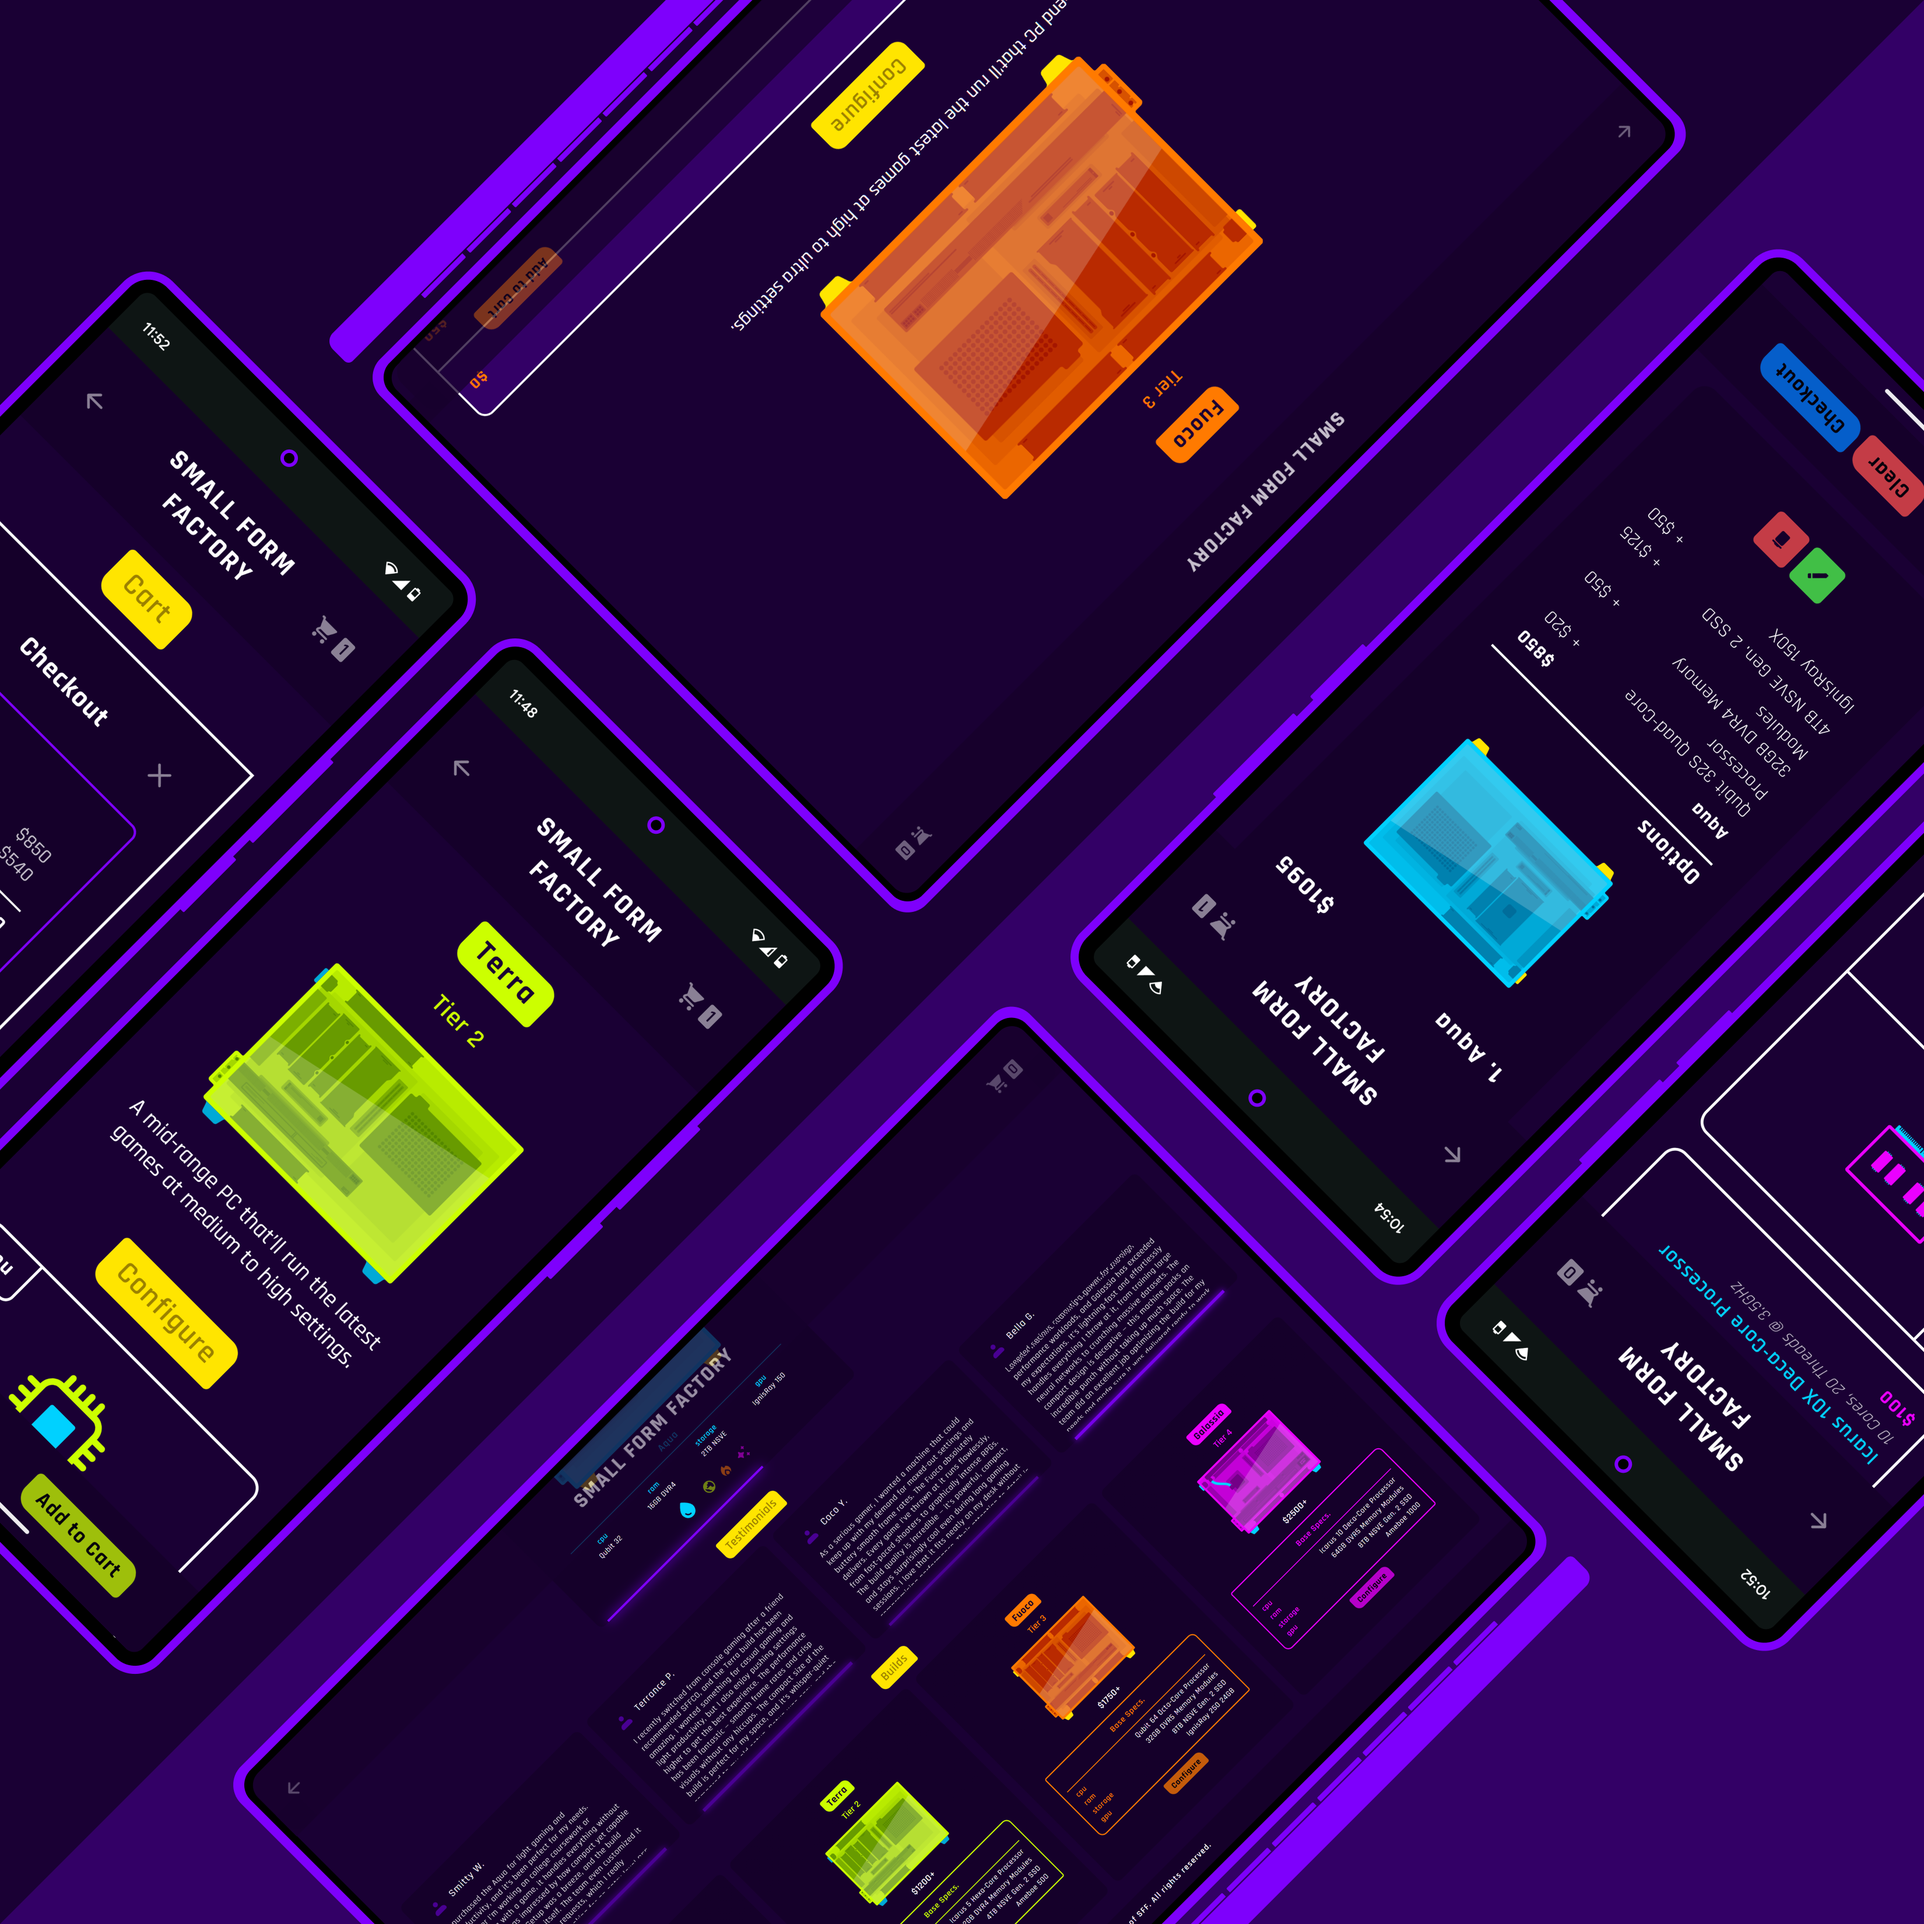
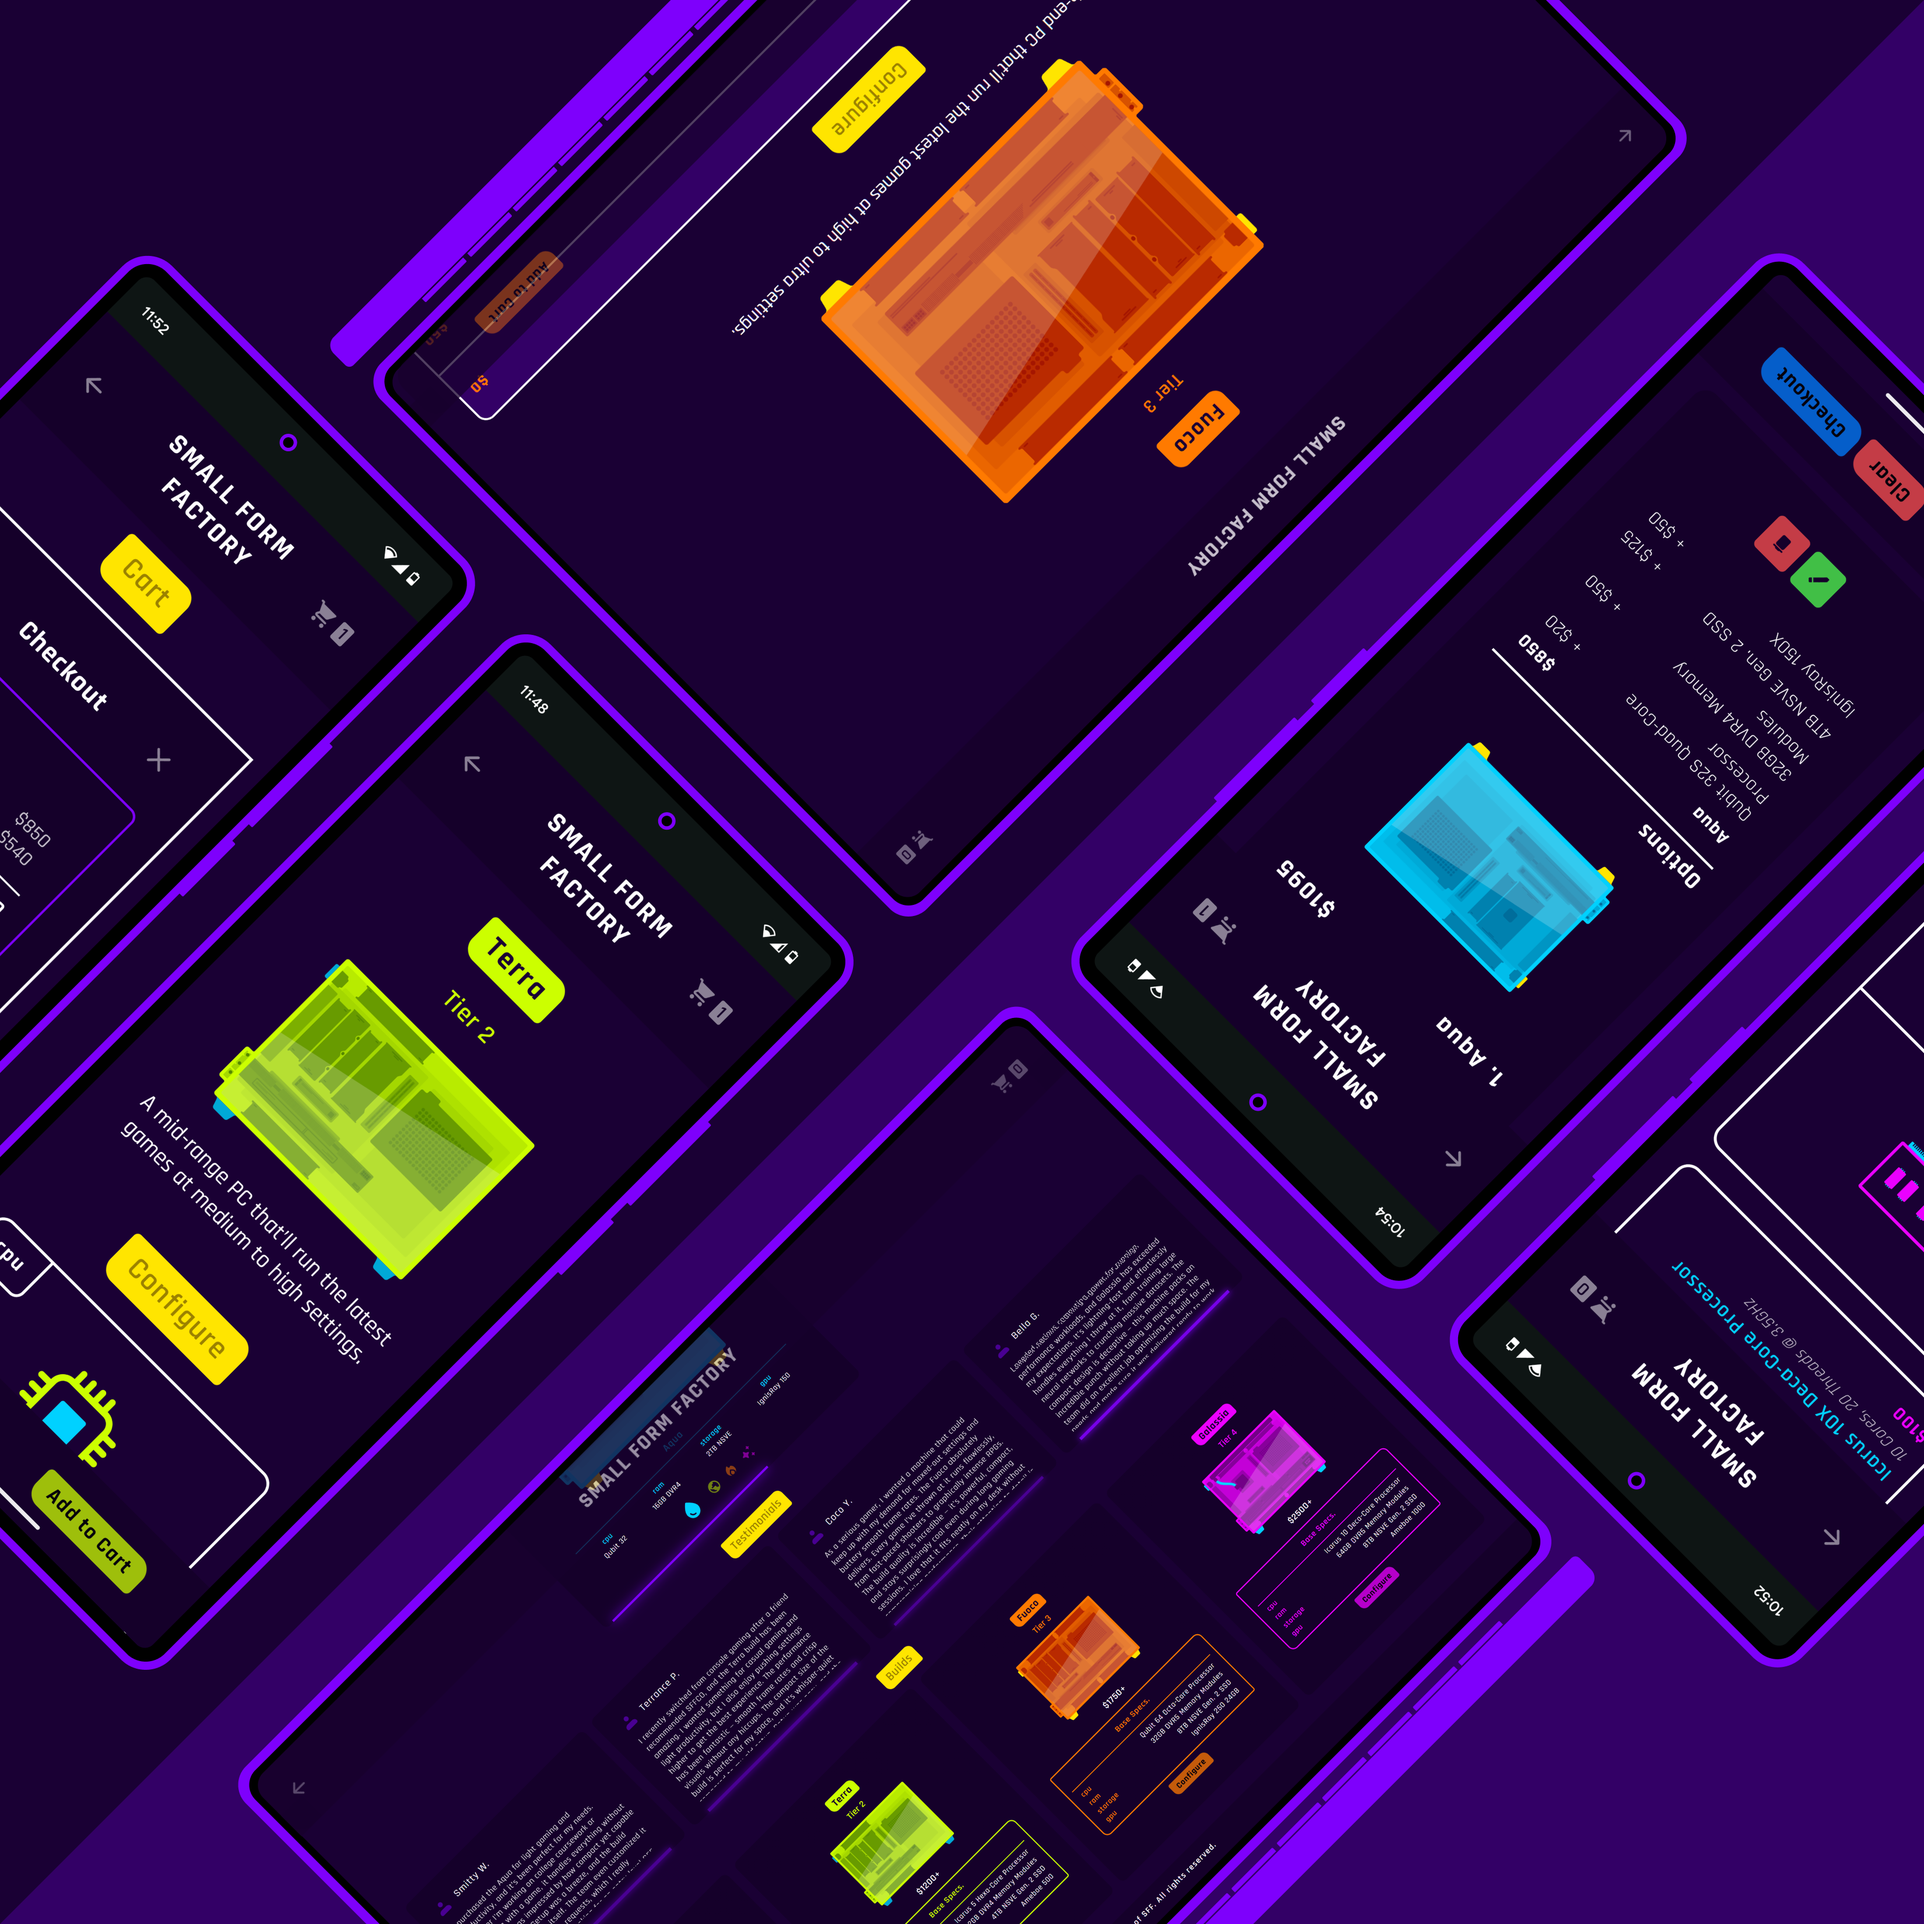
thumbnail fixes; cursor changes @ projects

diff --git a/d_projects/projects.css b/d_projects/projects.css
@@ -42,6 +42,7 @@
     flex-direction: column;
     justify-content: flex-end;
     align-items: center;
+    cursor: pointer;
 }
 
 .projects-sffpc {
@@ -92,6 +93,7 @@
     width: 100%;
     height: 100%;
     background-color: var(--bg-projects-trans);
+    cursor: default;
 
     display: flex;
     justify-content: center;
